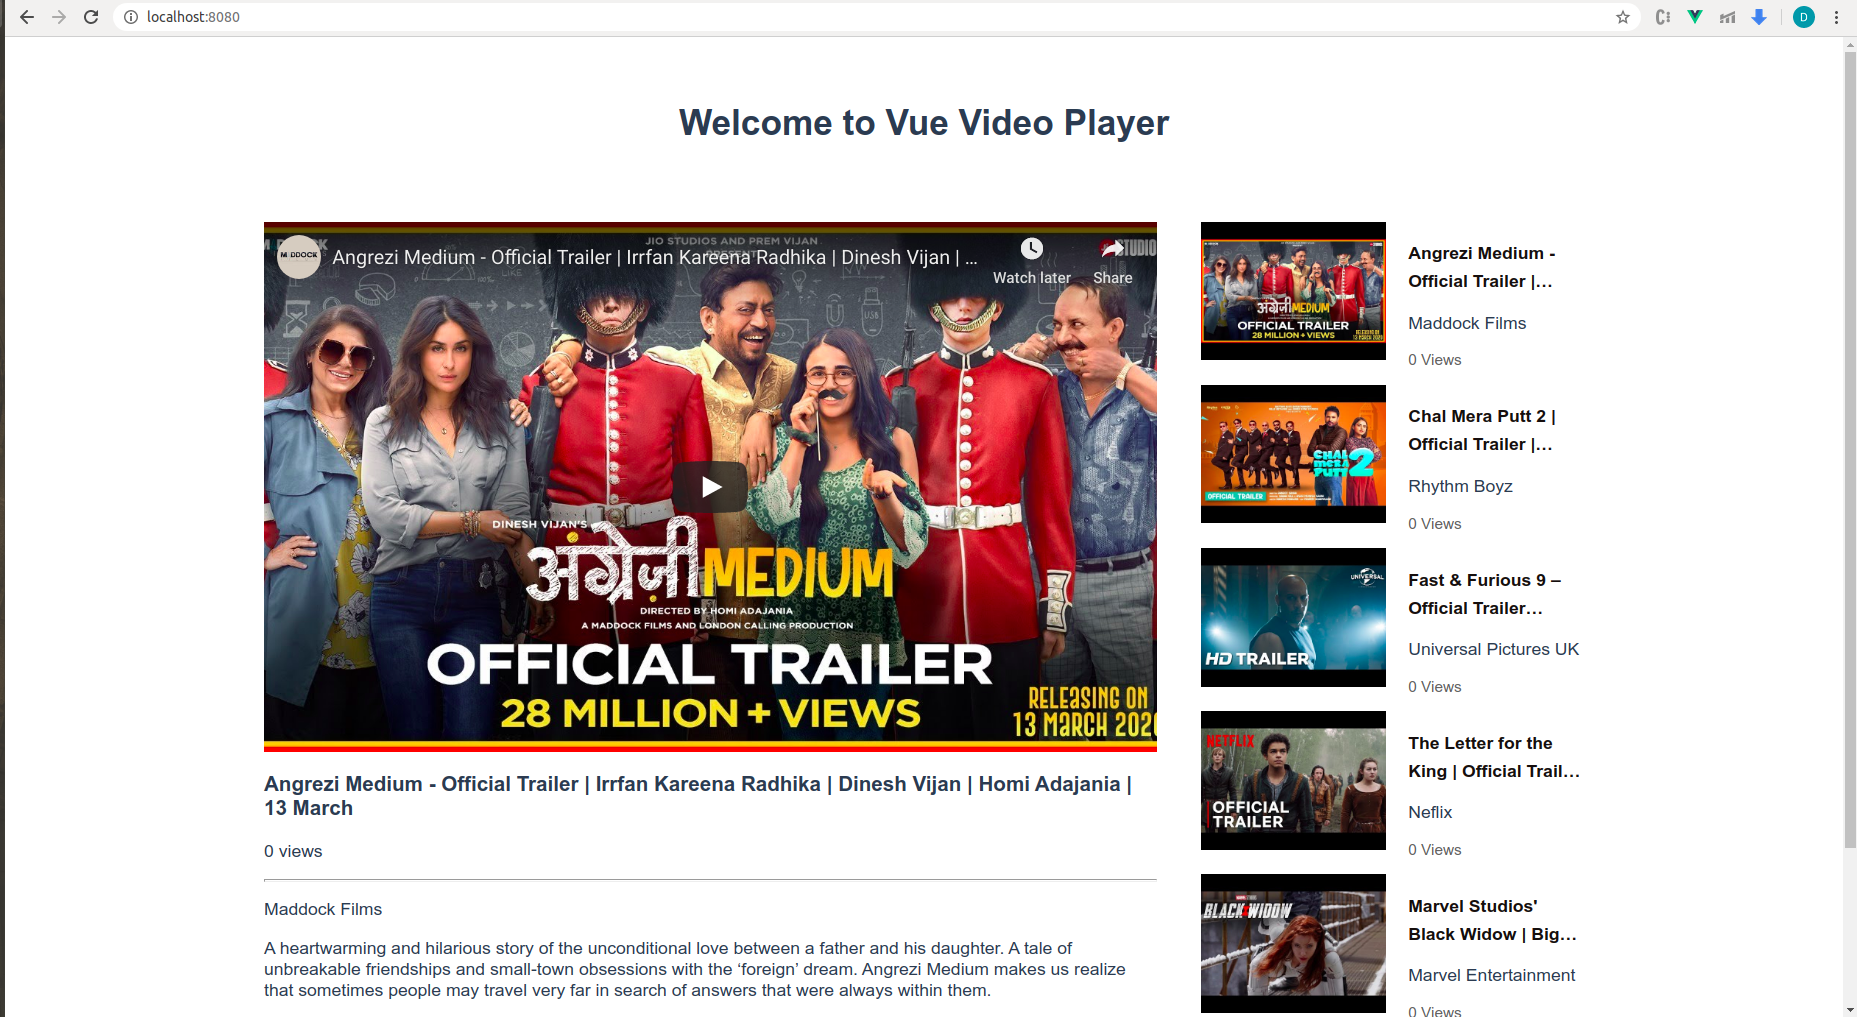
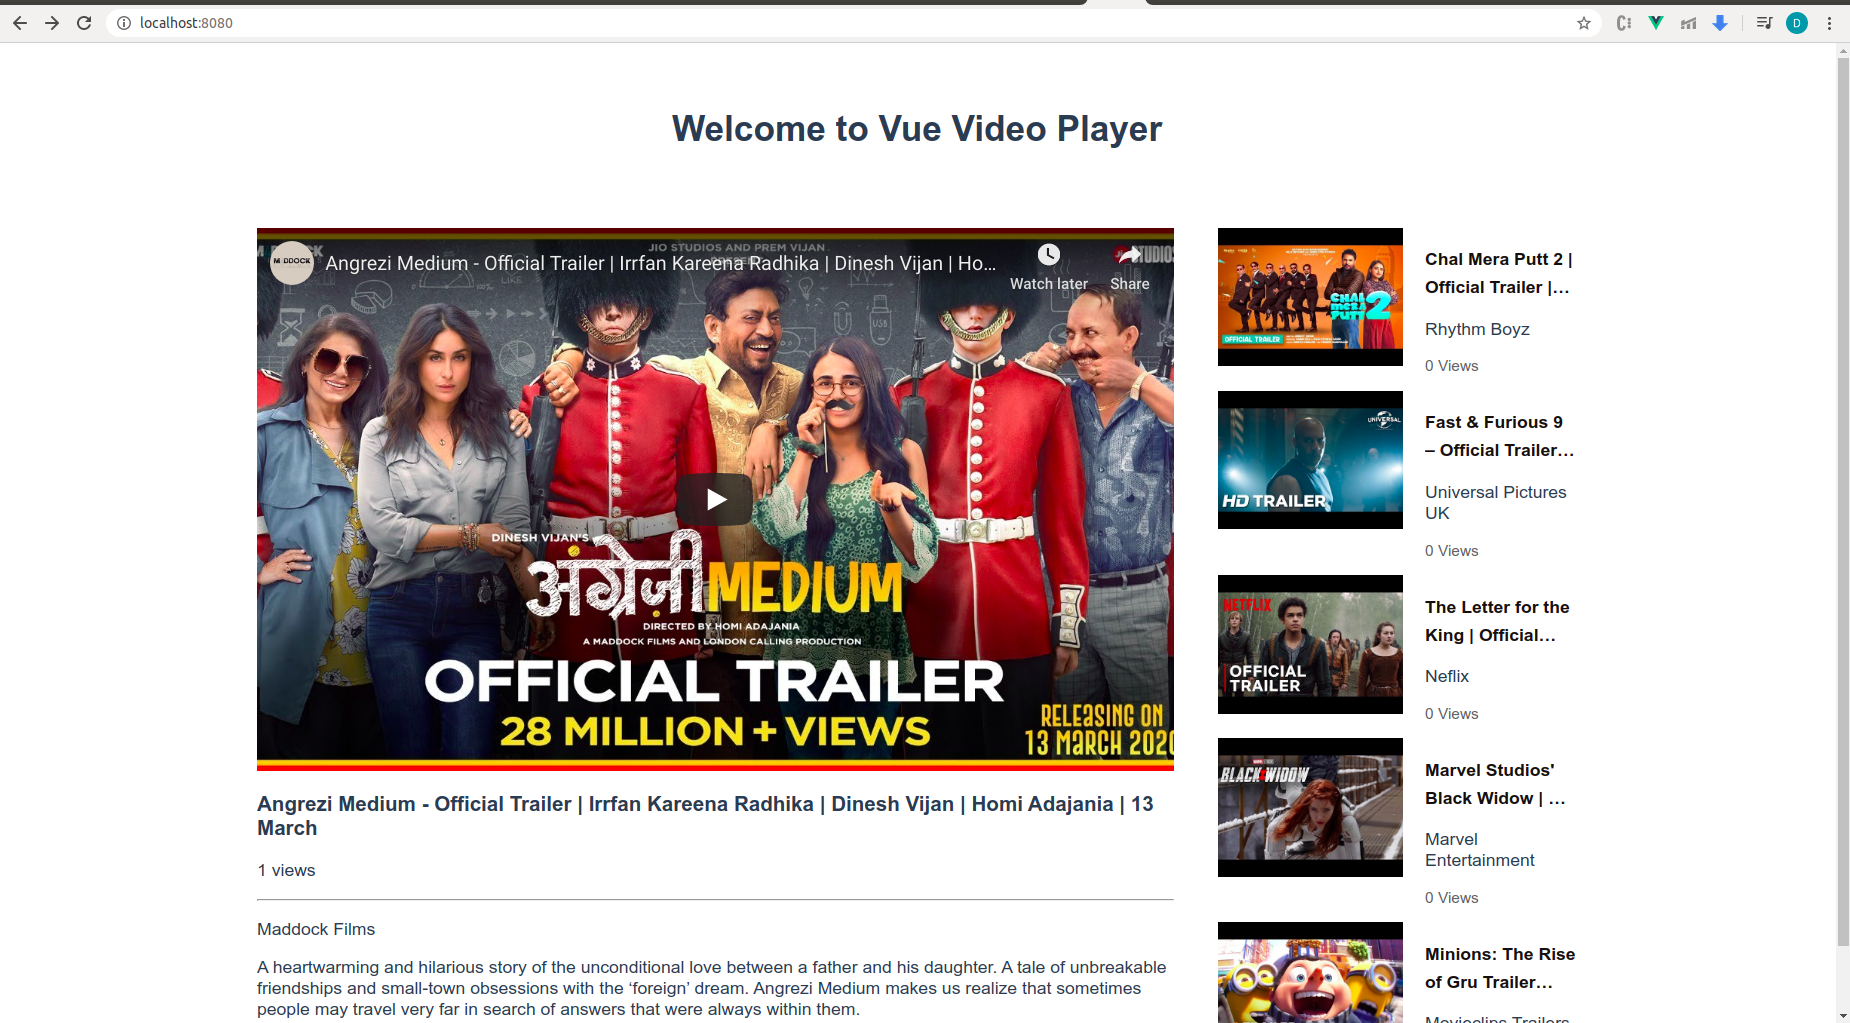
Third Commit

diff --git a/src/components/VideoPlayer.vue b/src/components/VideoPlayer.vue
@@ -13,15 +13,17 @@
       </div>
     </div>
     <div class="video-list">
-      <div v-for="video in videos" :key="video.id" class="thumbnail" @click="selectVideo(video)">
-        <div class="thumbnail-image">
-          <img :src="video.image_thumbnail" />
-        </div>
-        <div class="thumbnail-info">
-          <h3>{{video.title}}</h3>
-          <p>{{video.creator}}</p>
-          <p class="thumbnail-views">{{video.views}} Views</p>
-        </div>
+      <div v-for="video in videos" :key="video.id" @click="selectVideo(video)">
+        <div v-if="video.id != currentVideo.id" class="thumbnail">
+          <div class="thumbnail-image">
+            <img :src="video.image_thumbnail" />
+          </div>
+          <div class="thumbnail-info">
+            <h3>{{video.title}}</h3>
+            <p>{{video.creator}}</p>
+            <p class="thumbnail-views">{{video.views}} Views</p>
+          </div>
+        </div>  
       </div>
     </div>
   </div>
